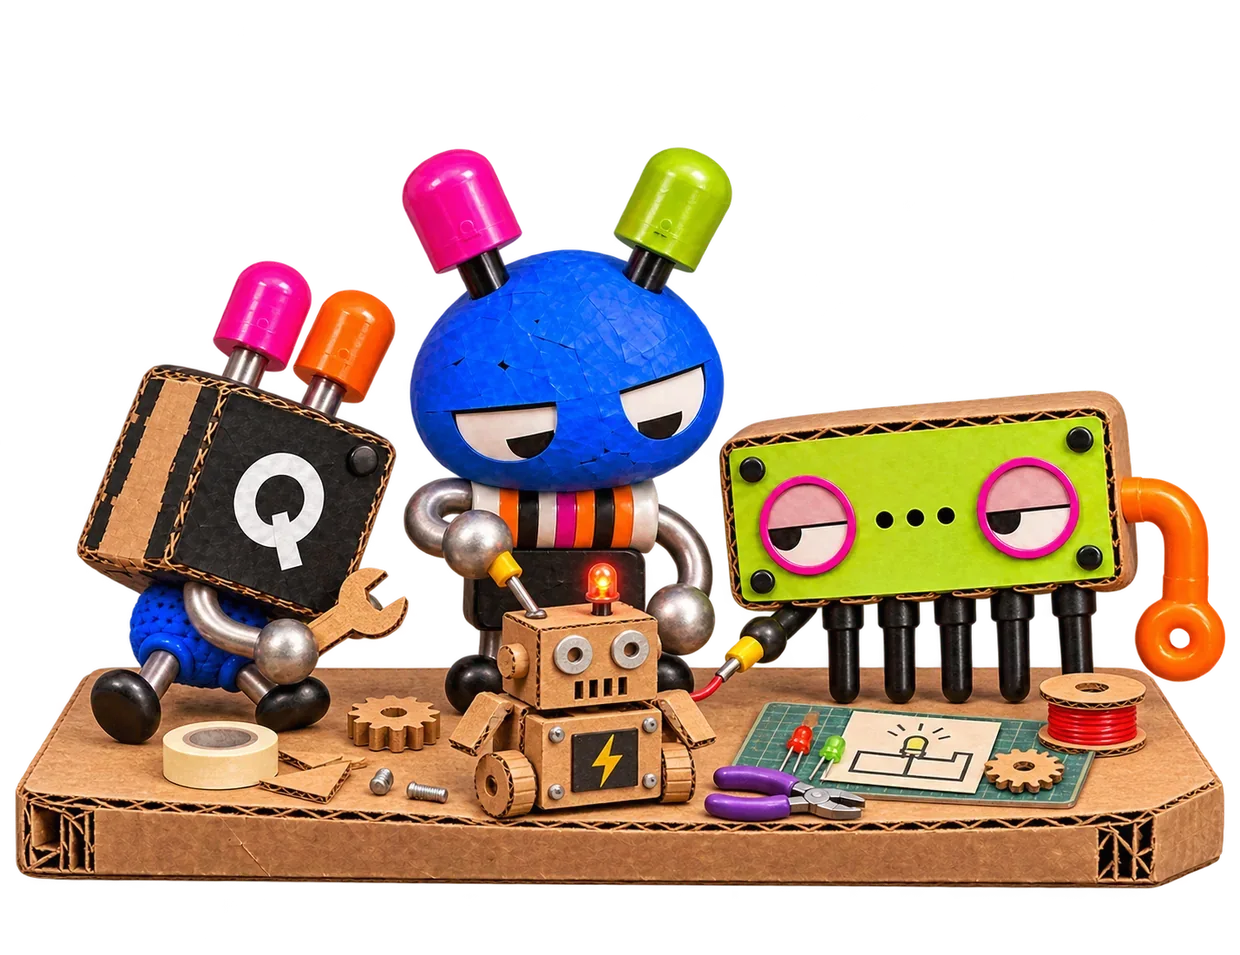
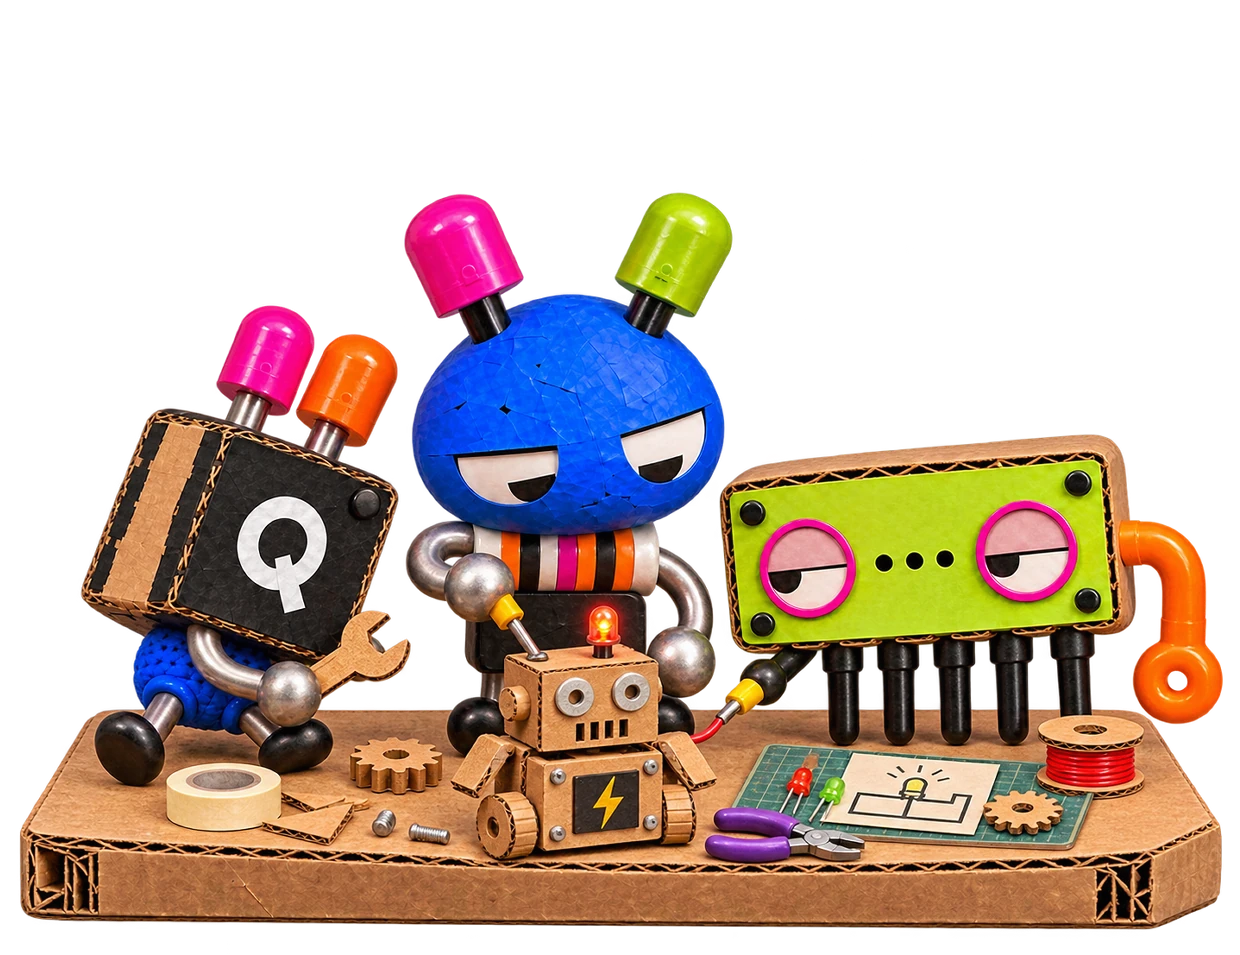
Align 11 rotating hero scenes to shared cardboard platform baseline and width

diff --git a/website/qwertylabs/script.js b/website/qwertylabs/script.js
@@ -270,17 +270,17 @@
   if (!hero) return;
 
   const scenes = [
-    { id: 'robot-workshop', src: 'img/hero-rotation/robot-workshop.webp?v=20261118-bottom-align', alt: 'Q Key, Six Pin and D1 working together in a cardboard robot workshop' },
-    { id: 'control-console', src: 'img/hero-rotation/control-console.webp?v=20261118-bottom-align', alt: 'Q Key, Six Pin and D1 using a handmade cardboard control console' },
-    { id: 'smart-speaker', src: 'img/hero-rotation/smart-speaker.webp?v=20261118-bottom-align', alt: 'Q Key, Six Pin and D1 experimenting with a cardboard smart speaker' },
-    { id: 'weather-station', src: 'img/hero-rotation/weather-station.webp?v=20261118-bottom-align', alt: 'Q Key, Six Pin and D1 testing an electronic weather station' },
-    { id: 'vr-tech-workshop', src: 'img/hero-rotation/vr-tech-workshop.webp?v=20261118-bottom-align', alt: 'Q Key, Six Pin and D1 trying out a handmade VR headset' },
-    { id: 'robot-arm', src: 'img/hero-rotation/robot-arm.webp?v=20261118-bottom-align', alt: 'Q Key, Six Pin and D1 operating a cardboard robotic arm' },
-    { id: 'drawing-tablet', src: 'img/hero-rotation/drawing-tablet.webp?v=20261118-bottom-align', alt: 'Q Key, Six Pin and D1 drawing together on a tablet' },
-    { id: 'colourful-pinball', src: 'img/hero-rotation/colourful-pinball.webp?v=20261118-bottom-align', alt: 'Q Key, Six Pin and D1 playing a colourful cardboard pinball game' },
-    { id: 'satellite-link', src: 'img/hero-rotation/satellite-link.webp?v=20261118-bottom-align', alt: 'Q Key, Six Pin and D1 building a cardboard satellite communication project' },
-    { id: 'rocket-control', src: 'img/hero-rotation/rocket-control.webp?v=20261118-bottom-align', alt: 'Q Key, Six Pin and D1 using a handmade rocket control station' },
-    { id: 'periscope', src: 'img/hero-rotation/periscope.webp?v=20261118-bottom-align', alt: 'Q Key, Six Pin and D1 making a cardboard periscope machine' }
+    { id: 'robot-workshop', src: 'img/hero-rotation/robot-workshop.webp?v=20261118-stage-baseline', alt: 'Q Key, Six Pin and D1 working together in a cardboard robot workshop' },
+    { id: 'control-console', src: 'img/hero-rotation/control-console.webp?v=20261118-stage-baseline', alt: 'Q Key, Six Pin and D1 using a handmade cardboard control console' },
+    { id: 'smart-speaker', src: 'img/hero-rotation/smart-speaker.webp?v=20261118-stage-baseline', alt: 'Q Key, Six Pin and D1 experimenting with a cardboard smart speaker' },
+    { id: 'weather-station', src: 'img/hero-rotation/weather-station.webp?v=20261118-stage-baseline', alt: 'Q Key, Six Pin and D1 testing an electronic weather station' },
+    { id: 'vr-tech-workshop', src: 'img/hero-rotation/vr-tech-workshop.webp?v=20261118-stage-baseline', alt: 'Q Key, Six Pin and D1 trying out a handmade VR headset' },
+    { id: 'robot-arm', src: 'img/hero-rotation/robot-arm.webp?v=20261118-stage-baseline', alt: 'Q Key, Six Pin and D1 operating a cardboard robotic arm' },
+    { id: 'drawing-tablet', src: 'img/hero-rotation/drawing-tablet.webp?v=20261118-stage-baseline', alt: 'Q Key, Six Pin and D1 drawing together on a tablet' },
+    { id: 'colourful-pinball', src: 'img/hero-rotation/colourful-pinball.webp?v=20261118-stage-baseline', alt: 'Q Key, Six Pin and D1 playing a colourful cardboard pinball game' },
+    { id: 'satellite-link', src: 'img/hero-rotation/satellite-link.webp?v=20261118-stage-baseline', alt: 'Q Key, Six Pin and D1 building a cardboard satellite communication project' },
+    { id: 'rocket-control', src: 'img/hero-rotation/rocket-control.webp?v=20261118-stage-baseline', alt: 'Q Key, Six Pin and D1 using a handmade rocket control station' },
+    { id: 'periscope', src: 'img/hero-rotation/periscope.webp?v=20261118-stage-baseline', alt: 'Q Key, Six Pin and D1 making a cardboard periscope machine' }
   ];
   const storageKey = 'qwertylabs-hero-production-bag-v1';
   const ids = scenes.map(scene => scene.id);

diff --git a/website/qwertylabs/pwyw.html b/website/qwertylabs/pwyw.html
@@ -21,7 +21,7 @@
     >
     <link rel="stylesheet" href="style.css?v=20261118-pwyw-spacing2">
     <script src="brand.js?v=20261118-favicon" defer></script>
-    <script src="script.js?v=20261118-hero-bottom" defer></script>
+    <script src="script.js?v=20261118-hero-stage" defer></script>
   </head>
   <body>
     <a class="skip" href="#main">Skip to content</a>

diff --git a/website/qwertylabs/javascript-by-tiarna.html b/website/qwertylabs/javascript-by-tiarna.html
@@ -21,7 +21,7 @@
     >
     <link rel="stylesheet" href="style.css?v=20261118-nav-js">
     <script src="brand.js?v=20261118-favicon" defer></script>
-    <script src="script.js?v=20261118-hero-bottom" defer></script>
+    <script src="script.js?v=20261118-hero-stage" defer></script>
   </head>
   <body>
     <a class="skip" href="#main">Skip to content</a>

diff --git a/website/qwertylabs/a-kids-pov.html b/website/qwertylabs/a-kids-pov.html
@@ -21,7 +21,7 @@
     >
     <link rel="stylesheet" href="style.css?v=20261118-nav">
     <script src="brand.js?v=20261118-favicon" defer></script>
-    <script src="script.js?v=20261118-hero-bottom" defer></script>
+    <script src="script.js?v=20261118-hero-stage" defer></script>
   </head>
   <body>
     <a class="skip" href="#main">Skip to content</a>

diff --git a/website/qwertylabs/adults.html b/website/qwertylabs/adults.html
@@ -21,7 +21,7 @@
     >
     <link rel="stylesheet" href="style.css?v=20261118-nav">
     <script src="brand.js?v=20261118-favicon" defer></script>
-    <script src="script.js?v=20261118-hero-bottom" defer></script>
+    <script src="script.js?v=20261118-hero-stage" defer></script>
   </head>
   <body>
     <a class="skip" href="#main">Skip to content</a>

diff --git a/website/qwertylabs/booking-terms.html b/website/qwertylabs/booking-terms.html
@@ -18,7 +18,7 @@
     >
     <link rel="stylesheet" href="style.css?v=20261118-nav">
     <script src="brand.js?v=20261118-favicon" defer></script>
-    <script src="script.js?v=20261118-hero-bottom" defer></script>
+    <script src="script.js?v=20261118-hero-stage" defer></script>
   </head>
   <body>
     <a class="skip" href="#main">Skip to content</a>

diff --git a/website/qwertylabs/child-safety.html b/website/qwertylabs/child-safety.html
@@ -18,7 +18,7 @@
     >
     <link rel="stylesheet" href="style.css?v=20261118-nav">
     <script src="brand.js?v=20261118-favicon" defer></script>
-    <script src="script.js?v=20261118-hero-bottom" defer></script>
+    <script src="script.js?v=20261118-hero-stage" defer></script>
   </head>
   <body>
     <a class="skip" href="#main">Skip to content</a>

diff --git a/website/qwertylabs/coding-camp.html b/website/qwertylabs/coding-camp.html
@@ -21,7 +21,7 @@
     >
     <link rel="stylesheet" href="style.css?v=20261118-nav">
     <script src="brand.js?v=20261118-favicon" defer></script>
-    <script src="script.js?v=20261118-hero-bottom" defer></script>
+    <script src="script.js?v=20261118-hero-stage" defer></script>
   </head>
   <body>
     <a class="skip" href="#main">Skip to content</a>

diff --git a/website/qwertylabs/index.html b/website/qwertylabs/index.html
@@ -21,7 +21,7 @@
     >
     <link rel="stylesheet" href="style.css?v=20261118-nav">
     <script src="brand.js?v=20261118-favicon" defer></script>
-    <script src="script.js?v=20261118-hero-bottom" defer></script>
+    <script src="script.js?v=20261118-hero-stage" defer></script>
   </head>
   <body>
     <a class="skip" href="#main">Skip to content</a>

diff --git a/website/qwertylabs/kids-coding-classes.html b/website/qwertylabs/kids-coding-classes.html
@@ -21,7 +21,7 @@
     >
     <link rel="stylesheet" href="style.css?v=20261118-nav">
     <script src="brand.js?v=20261118-favicon" defer></script>
-    <script src="script.js?v=20261118-hero-bottom" defer></script>
+    <script src="script.js?v=20261118-hero-stage" defer></script>
   </head>
   <body>
     <a class="skip" href="#main">Skip to content</a>

diff --git a/website/qwertylabs/kids.html b/website/qwertylabs/kids.html
@@ -21,7 +21,7 @@
     >
     <link rel="stylesheet" href="style.css?v=20261118-nav">
     <script src="brand.js?v=20261118-favicon" defer></script>
-    <script src="script.js?v=20261118-hero-bottom" defer></script>
+    <script src="script.js?v=20261118-hero-stage" defer></script>
   </head>
   <body>
     <a class="skip" href="#main">Skip to content</a>

diff --git a/website/qwertylabs/privacy.html b/website/qwertylabs/privacy.html
@@ -18,7 +18,7 @@
     >
     <link rel="stylesheet" href="style.css?v=20261118-nav">
     <script src="brand.js?v=20261118-favicon" defer></script>
-    <script src="script.js?v=20261118-hero-bottom" defer></script>
+    <script src="script.js?v=20261118-hero-stage" defer></script>
   </head>
   <body>
     <a class="skip" href="#main">Skip to content</a>
